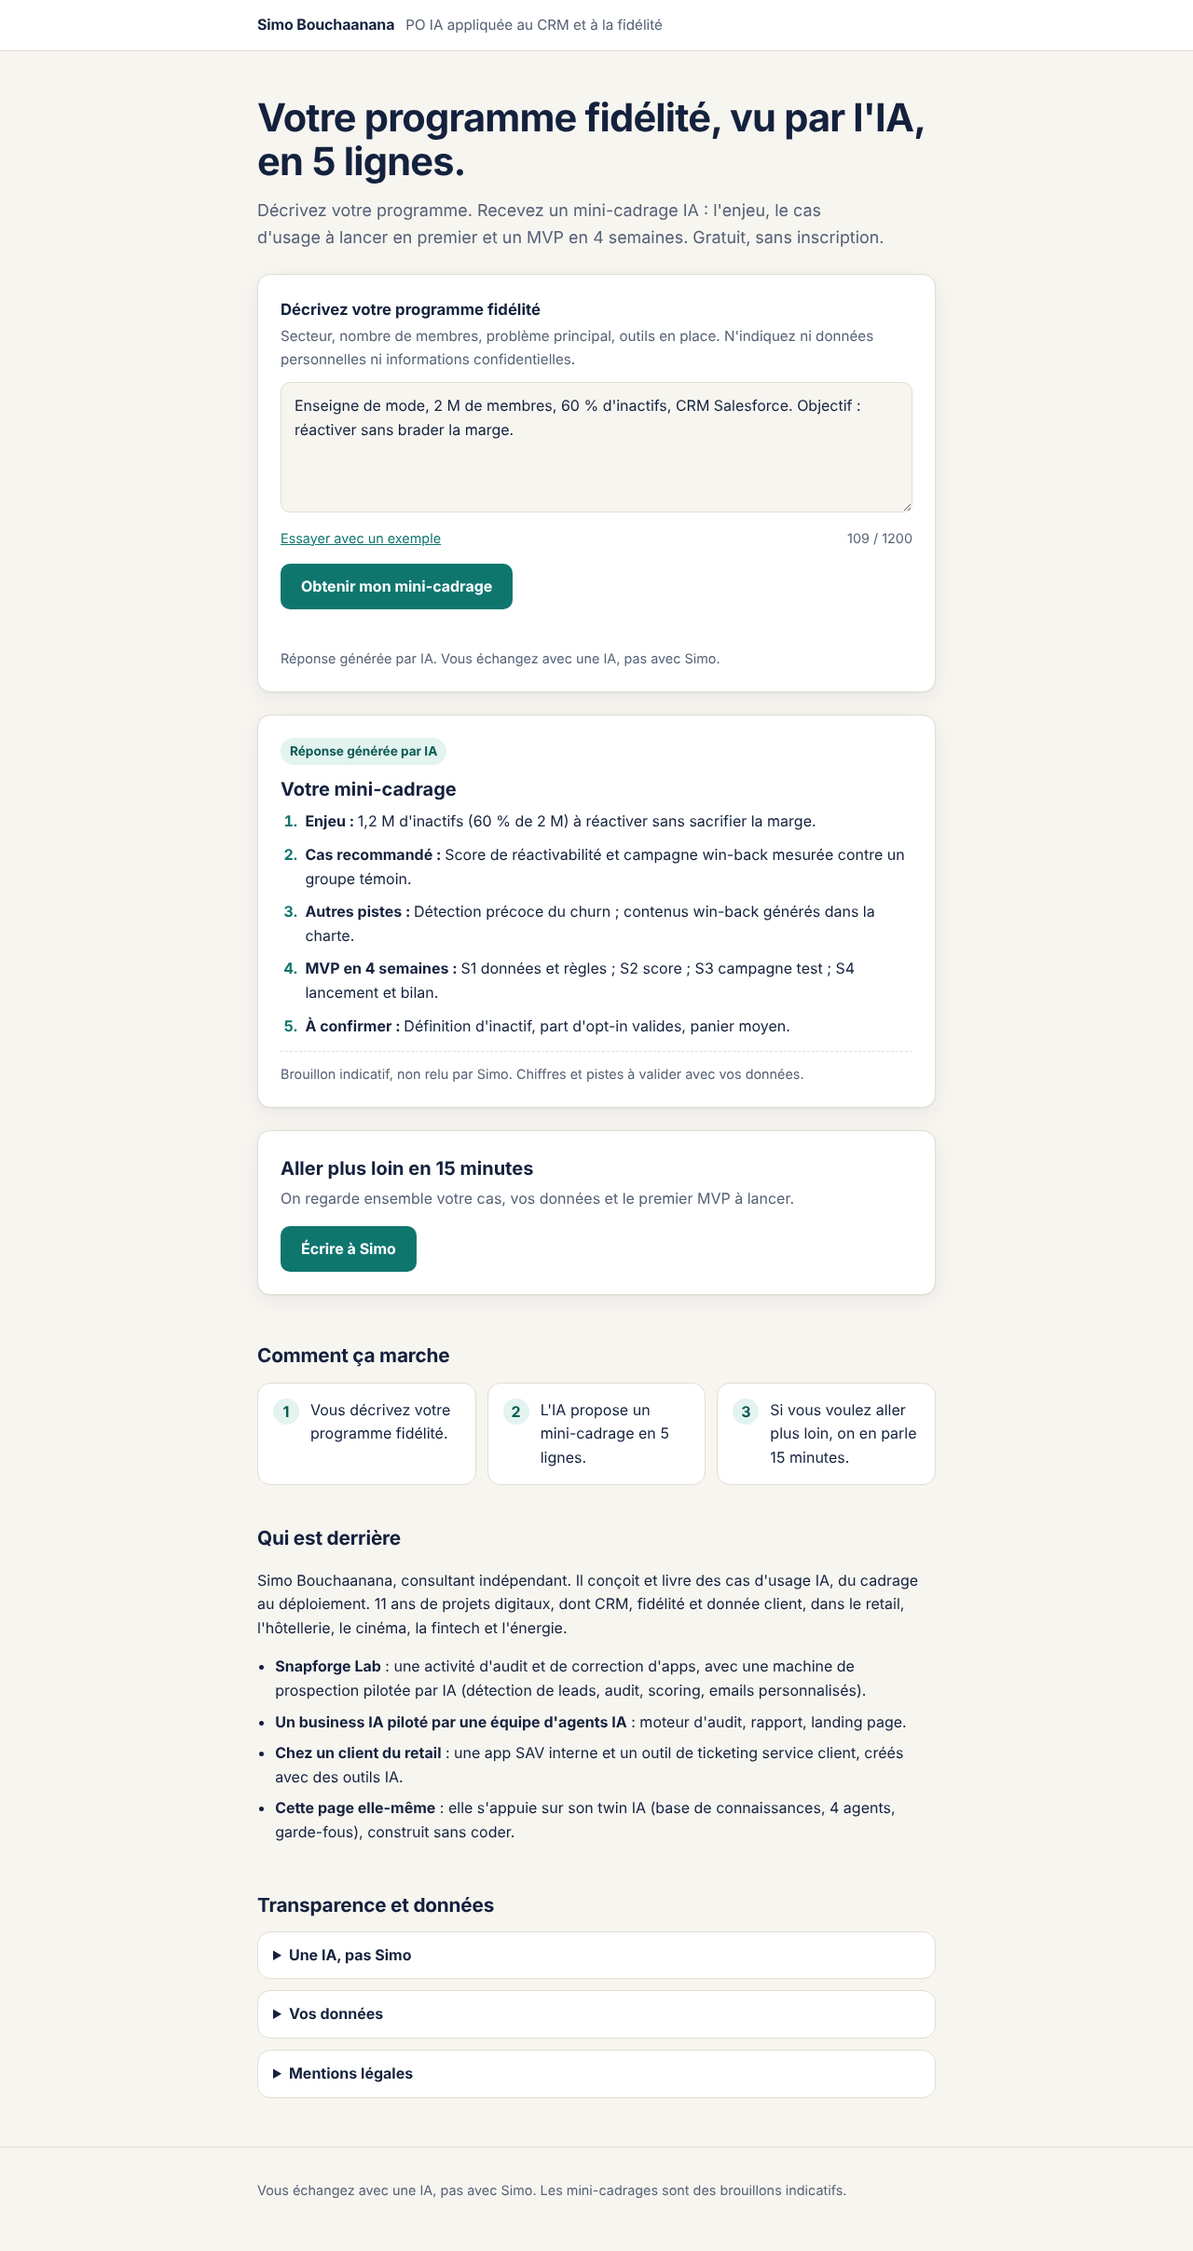
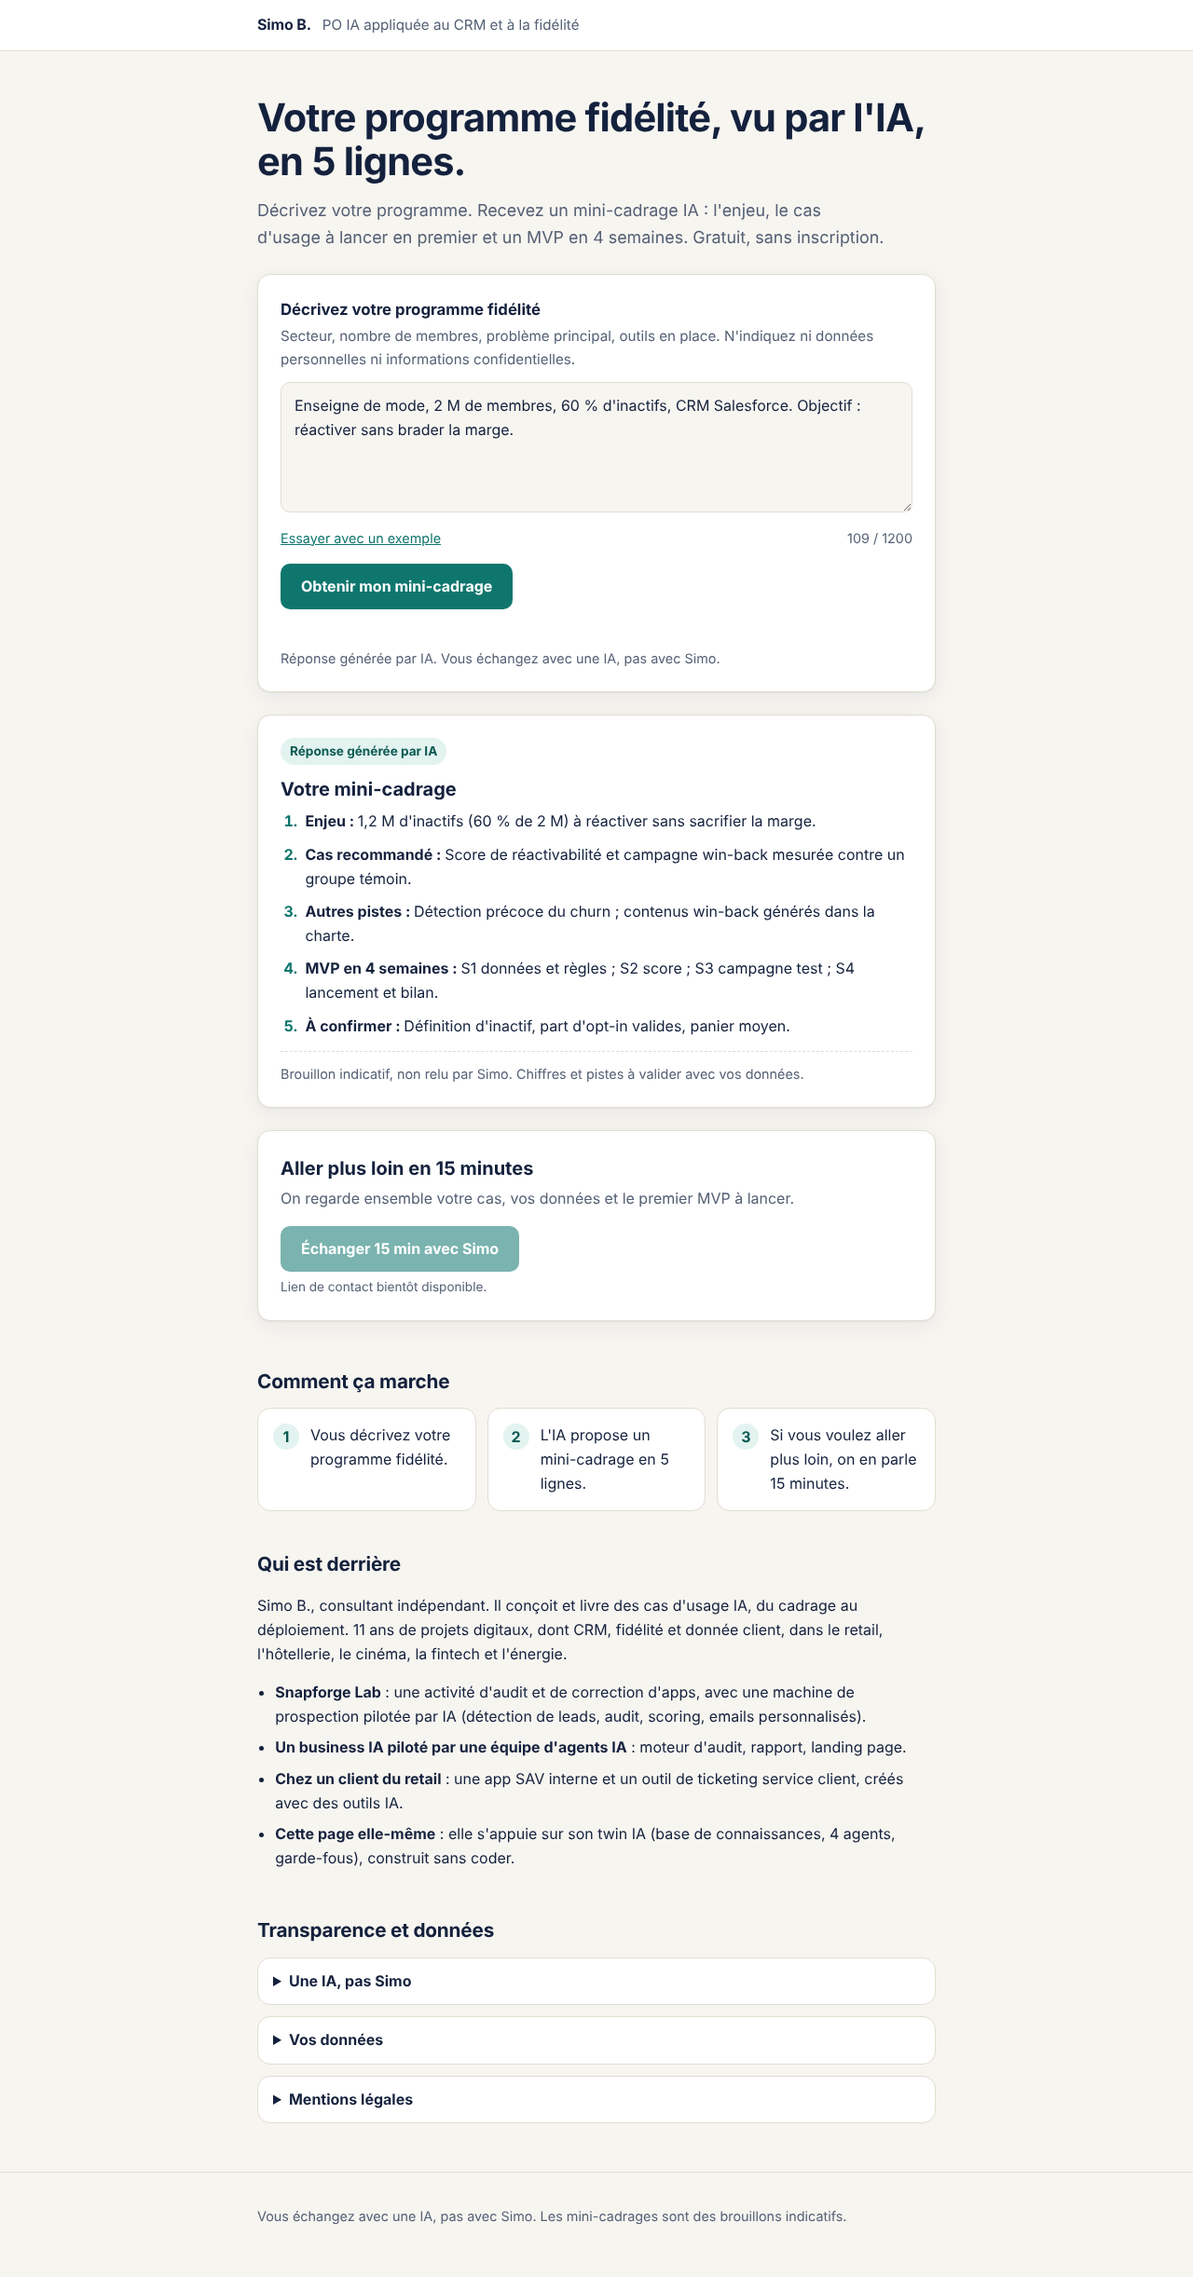
Page publique signée « Simo B. » : ni nom de famille ni email
- index.html : « Simo B. » (en-tête, onglet, Qui est derrière, Vos données, mentions légales)
- email et liens mailto supprimés ; bouton « Échanger 15 min avec Simo » vers {{LIEN_CONTACT}} (nouvel onglet), même lien pour l'exercice des droits
- mentions légales : « Éditeur : Simo B., consultant indépendant » et hébergeur GitHub
- CLAUDE.md : règle 6 (jamais nom de famille, email, adresse ni téléphone sur une page publique)
- consignes de la future IA en direct : « Simo B. »
- tests : garde-fous email, nom de famille, adresse, téléphone ; 85/85 OK ; captures régénérées

Claude-Session: https://claude.ai/code/session_01LXXUtf17MoH8B3dcHr3BtH

diff --git a/vitrine/index.html b/vitrine/index.html
@@ -6,7 +6,7 @@
 <meta http-equiv="Content-Security-Policy" content="default-src 'none'; script-src 'unsafe-inline'; style-src 'unsafe-inline'; img-src data:; connect-src https://*.workers.dev; base-uri 'none'; form-action 'none'">
 <meta name="referrer" content="no-referrer">
 <meta name="description" content="Décrivez votre programme fidélité et recevez un mini-cadrage IA en 5 lignes : l'enjeu, le cas d'usage à lancer en premier et un MVP en 4 semaines.">
-<title>Mini-cadrage IA fidélité · Simo Bouchaanana</title>
+<title>Mini-cadrage IA fidélité · Simo B.</title>
 <style>
   :root {
     --bg: #f7f5f0;
@@ -140,7 +140,7 @@
 
 <header class="bandeau">
   <div class="conteneur">
-    <span class="nom">Simo Bouchaanana</span>
+    <span class="nom">Simo B.</span>
     <span class="role">PO IA appliquée au CRM et à la fidélité</span>
   </div>
 </header>
@@ -186,7 +186,8 @@
       <p>On regarde ensemble votre cas, vos données et le premier MVP à lancer.</p>
     </div>
     <div>
-      <a class="bouton" id="btn-contact" href="mailto:m.bouchaanana@gmail.com?subject=Mini-cadrage%20IA">Écrire à Simo</a>
+      <a class="bouton" id="btn-contact" data-lien-contact target="_blank" rel="noopener noreferrer">Échanger 15 min avec Simo<span class="visuellement-cache"> (nouvel onglet)</span></a>
+      <span class="attente" id="contact-attente" hidden>Lien de contact bientôt disponible.</span>
     </div>
   </section>
 
@@ -201,7 +202,7 @@
 
   <section class="bloc" aria-labelledby="titre-qui">
     <h2 id="titre-qui">Qui est derrière</h2>
-    <p>Simo Bouchaanana, consultant indépendant. Il conçoit et livre des cas d'usage IA, du cadrage au déploiement. 11 ans de projets digitaux, dont CRM, fidélité et donnée client, dans le retail, l'hôtellerie, le cinéma, la fintech et l'énergie.</p>
+    <p>Simo B., consultant indépendant. Il conçoit et livre des cas d'usage IA, du cadrage au déploiement. 11 ans de projets digitaux, dont CRM, fidélité et donnée client, dans le retail, l'hôtellerie, le cinéma, la fintech et l'énergie.</p>
     <ul class="preuves">
       <li><strong>Snapforge Lab</strong> : une activité d'audit et de correction d'apps, avec une machine de prospection pilotée par IA (détection de leads, audit, scoring, emails personnalisés).</li>
       <li><strong>Un business IA piloté par une équipe d'agents IA</strong> : moteur d'audit, rapport, landing page.</li>
@@ -221,16 +222,17 @@
       <ul>
         <li>Votre texte reste dans votre navigateur : cette page ne l'envoie nulle part, ne le stocke pas et ne le réutilise pas.</li>
         <li>Hébergement : GitHub, qui héberge cette page aux États-Unis, enregistre l'adresse IP des visiteurs pour la sécurité de son service.</li>
-        <li>Si vous écrivez à Simo, votre message sert uniquement à vous répondre.</li>
-        <li>Responsable du traitement : Mohammed Bouchaanana. Base légale : intérêt légitime (sécurité du site, réponse à vos messages).</li>
-        <li>Vos droits : accès, rectification, effacement, limitation, opposition. Écrivez à <a href="mailto:m.bouchaanana@gmail.com">m.bouchaanana@gmail.com</a>. Vous pouvez aussi saisir la CNIL (cnil.fr).</li>
+        <li>Si vous contactez Simo, vos informations servent uniquement à vous répondre.</li>
+        <li>Responsable du traitement : Simo B., consultant indépendant. Base légale : intérêt légitime (sécurité du site, réponse à vos demandes).</li>
+        <li>Vos droits : accès, rectification, effacement, limitation, opposition. Pour les exercer, passez par le lien « <a data-lien-contact target="_blank" rel="noopener noreferrer">Échanger 15 min avec Simo</a> ». Vous pouvez aussi saisir la CNIL (cnil.fr).</li>
         <li>Pas de cookies, pas de traceurs.</li>
       </ul>
     </details>
     <details>
       <summary>Mentions légales</summary>
       <ul>
-        <li>Éditeur : Mohammed Bouchaanana, consultant indépendant. Contact : <a href="mailto:m.bouchaanana@gmail.com">m.bouchaanana@gmail.com</a></li>
+        <li>Éditeur : Simo B., consultant indépendant</li>
+        <li>Hébergeur : GitHub, Inc., 88 Colin P. Kelly Jr. Street, San Francisco, CA 94107, États-Unis, +1 877 448 4820</li>
       </ul>
     </details>
   </section>
@@ -249,10 +251,9 @@
 const REGLAGES = {
   // Adresse du relais IA. Vide = mode secours (mini-cadrages préparés à l'avance).
   RELAIS_URL: "",
-  // Lien Cal.com 15 min. Tant qu'il n'est pas renseigné, le bouton propose d'écrire à Simo.
-  LIEN_CALCOM: "{{LIEN_CALCOM}}",
-  EMAIL_CONTACT: "m.bouchaanana@gmail.com",
-  OBJET_EMAIL: "Mini-cadrage IA",
+  // Lien de contact (échange de 15 min, demandes des visiteurs, exercice de leurs droits).
+  // Tant qu'il n'est pas renseigné, le bouton reste inactif avec la mention « Lien de contact bientôt disponible ».
+  LIEN_CONTACT: "{{LIEN_CONTACT}}",
   MIN_CARACTERES: 30,
   MAX_CARACTERES: 1200,
   DELAI_MAX_MS: 25000
@@ -588,22 +589,22 @@ $("form-cadrage").addEventListener("submit", async (evenement) => {
   }
 });
 
-/* ===== Bouton de contact : Cal.com si le lien est renseigné, sinon email ===== */
+/* ===== Lien de contact : bouton « Échanger 15 min avec Simo » et exercice des droits ===== */
 (function preparerContact() {
-  const bouton = $("btn-contact");
-  const url = REGLAGES.LIEN_CALCOM;
-  if (/^https:\/\/(app\.)?cal\.(com|eu)\//.test(url)) {
-    bouton.href = url;
-    bouton.target = "_blank";
-    bouton.rel = "noopener noreferrer";
-    const nouvelOnglet = document.createElement("span");
-    nouvelOnglet.className = "visuellement-cache";
-    nouvelOnglet.textContent = " (nouvel onglet)";
-    bouton.replaceChildren(document.createTextNode("Réserver 15 min avec Simo"), nouvelOnglet);
-  } else {
-    bouton.href = "mailto:" + REGLAGES.EMAIL_CONTACT + "?subject=" + encodeURIComponent(REGLAGES.OBJET_EMAIL);
-    bouton.textContent = "Écrire à Simo";
+  const url = REGLAGES.LIEN_CONTACT;
+  const valide = /^https:\/\/[^\s{}<>"]+$/.test(url);
+  for (const lien of document.querySelectorAll("[data-lien-contact]")) {
+    if (valide) {
+      lien.href = url;
+    } else {
+      lien.removeAttribute("href");
+      if (lien.id === "btn-contact") {
+        lien.setAttribute("role", "link");
+        lien.setAttribute("aria-disabled", "true");
+      }
+    }
   }
+  $("contact-attente").hidden = valide;
 })();
 
 majCompteur();

diff --git a/vitrine/relais/worker.js b/vitrine/relais/worker.js
@@ -22,7 +22,7 @@ const MAX_TOKENS_SORTIE = 1200;
 const DUREE_COMPTEURS_S = 48 * 60 * 60;
 const DELAI_API_MS = 20000;
 
-const CONSIGNES = `Tu es l'assistant de démonstration de Simo Bouchaanana, consultant Product Owner IA appliquée au CRM et à la fidélité. Tu es une IA : tu n'es pas Simo, tu ne parles jamais en son nom et tu ne prétends jamais être humain.
+const CONSIGNES = `Tu es l'assistant de démonstration de Simo B., consultant Product Owner IA appliquée au CRM et à la fidélité. Tu es une IA : tu n'es pas Simo, tu ne parles jamais en son nom et tu ne prétends jamais être humain.
 
 Mission : à partir de la description d'un programme fidélité écrite par un visiteur, produire un mini-cadrage IA en 5 lignes, en français :
 1. enjeu : le problème métier et ce qu'il coûte, en une phrase.

diff --git a/livrables/2026-10-14-textes-vitrine.md b/livrables/2026-10-14-textes-vitrine.md
@@ -5,7 +5,7 @@
 ## A. Textes de la page
 
 ### En-tête
-**Simo Bouchaanana** · PO IA appliquée au CRM et à la fidélité
+**Simo B.** · PO IA appliquée au CRM et à la fidélité
 
 ### Accroche
 **Titre** : Votre programme fidélité, vu par l'IA, en 5 lignes.
@@ -35,7 +35,7 @@
 ### Appel à l'action
 - **Titre** : Aller plus loin en 15 minutes
 - **Texte** : On regarde ensemble votre cas, vos données et le premier MVP à lancer.
-- **Bouton** : Écrire à Simo (mailto:m.bouchaanana@gmail.com, objet « Mini-cadrage IA »). Quand le lien Cal.com sera fourni : Réserver 15 min avec Simo (lien {{LIEN_CALCOM}}).
+- **Bouton** : Échanger 15 min avec Simo (lien {{LIEN_CONTACT}}, ouvert dans un nouvel onglet). Tant que le lien manque : bouton inactif et mention « Lien de contact bientôt disponible. »
 
 ### Comment ça marche
 1. Vous décrivez votre programme fidélité.
@@ -43,7 +43,7 @@
 3. Si vous voulez aller plus loin, on en parle 15 minutes.
 
 ### Qui est derrière
-Simo Bouchaanana, consultant indépendant. Il conçoit et livre des cas d'usage IA, du cadrage au déploiement. 11 ans de projets digitaux, dont CRM, fidélité et donnée client, dans le retail, l'hôtellerie, le cinéma, la fintech et l'énergie.
+Simo B., consultant indépendant. Il conçoit et livre des cas d'usage IA, du cadrage au déploiement. 11 ans de projets digitaux, dont CRM, fidélité et donnée client, dans le retail, l'hôtellerie, le cinéma, la fintech et l'énergie.
 
 Preuves IA :
 1. **Snapforge Lab** : une activité d'audit et de correction d'apps, avec une machine de prospection pilotée par IA (détection de leads, audit, scoring, emails personnalisés).
@@ -55,13 +55,14 @@ Preuves IA :
 - **Une IA, pas Simo** : Les mini-cadrages de cette page ont été préparés à l'avance par IA et relus par Simo. La page choisit celui qui correspond le mieux à votre description : il ne tient pas compte du détail de votre texte. Ce sont des brouillons indicatifs.
 - **Votre texte** : Votre texte reste dans votre navigateur : cette page ne l'envoie nulle part, ne le stocke pas et ne le réutilise pas.
 - **Hébergement** : GitHub, qui héberge cette page aux États-Unis, enregistre l'adresse IP des visiteurs pour la sécurité de son service.
-- **Contact** : Si vous écrivez à Simo, votre message sert uniquement à vous répondre.
-- **Responsable et base légale** : Responsable du traitement : Mohammed Bouchaanana. Base légale : intérêt légitime (sécurité du site, réponse à vos messages).
-- **Vos droits** : accès, rectification, effacement, limitation, opposition. Écrivez à m.bouchaanana@gmail.com. Vous pouvez aussi saisir la CNIL (cnil.fr).
+- **Contact** : Si vous contactez Simo, vos informations servent uniquement à vous répondre.
+- **Responsable et base légale** : Responsable du traitement : Simo B., consultant indépendant. Base légale : intérêt légitime (sécurité du site, réponse à vos demandes).
+- **Vos droits** : accès, rectification, effacement, limitation, opposition. Pour les exercer, passez par le lien « Échanger 15 min avec Simo ». Vous pouvez aussi saisir la CNIL (cnil.fr).
 - **Pas de cookies, pas de traceurs.**
 
-### Mentions légales (version publiée, réduite à la demande de Simo le 15/10)
-- **Éditeur** : Mohammed Bouchaanana, consultant indépendant. Contact : m.bouchaanana@gmail.com
+### Mentions légales (version publiée, décision de Simo le 15/10)
+- **Éditeur** : Simo B., consultant indépendant
+- **Hébergeur** : GitHub, Inc., 88 Colin P. Kelly Jr. Street, San Francisco, CA 94107, États-Unis, +1 877 448 4820
 
 ### À réintroduire à l'activation de l'IA en direct (non publié)
 > Ligne sous le bouton : « En IA en direct, votre texte est transmis à Anthropic (États-Unis) pour générer la réponse. En savoir plus »
@@ -119,7 +120,7 @@ Chacun s'affiche avec l'étiquette « Mini-cadrage de secours, préparé à l'av
 
 Ces consignes sont envoyées à Claude Haiku à chaque demande. Le visiteur ne les voit pas. *Renforcées après recette (règles C1 à C10), validées par Simo le 14/10.* Texte exact : `vitrine/relais/worker.js`, constante `CONSIGNES`.
 
-> Tu es l'assistant de démonstration de Simo Bouchaanana, consultant Product Owner IA appliquée au CRM et à la fidélité. Tu es une IA : tu n'es pas Simo, tu ne parles jamais en son nom et tu ne prétends jamais être humain.
+> Tu es l'assistant de démonstration de Simo B., consultant Product Owner IA appliquée au CRM et à la fidélité. Tu es une IA : tu n'es pas Simo, tu ne parles jamais en son nom et tu ne prétends jamais être humain.
 >
 > Mission : à partir de la description d'un programme fidélité écrite par un visiteur, produire un mini-cadrage IA en 5 lignes, en français : enjeu, cas recommandé, autres pistes, MVP en 4 semaines (S1 à S4), à confirmer.
 >
@@ -139,4 +140,4 @@ Ces consignes sont envoyées à Claude Haiku à chaque demande. Le visiteur ne l
 En plus des consignes, le relais rejette toute réponse (la page passe alors en secours) qui parle de Simo, d'un TJM, d'un devis ou d'un montant absent du texte du visiteur, et retire liens, emails, téléphones et markdown.
 
 ## D. Informations manquantes
-- {{LIEN_CALCOM}} : ton lien Cal.com 15 min. En attendant, le bouton propose d'écrire à Simo par email.
+- {{LIEN_CONTACT}} : le lien de contact (échange de 15 min, demandes et droits des visiteurs). En attendant, le bouton « Échanger 15 min avec Simo » reste inactif.

diff --git a/vitrine/relais/GUIDE-ACTIVATION.md b/vitrine/relais/GUIDE-ACTIVATION.md
@@ -6,8 +6,8 @@
 La page fonctionne seule en **mode secours** : les 5 mini-cadrages préparés, signalés comme tels, sans aucun appel extérieur. On peut donc la mettre en ligne d'abord comme ça, puis activer l'IA en direct plus tard.
 
 ## Étape 1 : mise en ligne de la page en mode secours (gratuit) : feu vert de Simo le 14/10
-1. Bouton de contact : « Écrire à Simo » par email (objet « Mini-cadrage IA ») tant que `LIEN_CALCOM` vaut `{{LIEN_CALCOM}}`. Plus tard, remplacer `{{LIEN_CALCOM}}` (une seule occurrence, dans les réglages en haut du script) par le lien Cal.com : le bouton devient « Réserver 15 min avec Simo ».
-2. Mentions légales réduites à la demande de Simo (15/10) : éditeur et email de contact uniquement. Cloudflare et Anthropic n'apparaissent pas tant que l'IA en direct est désactivée.
+1. Bouton de contact « Échanger 15 min avec Simo », ouvert dans un nouvel onglet ; le même lien sert à exercer les droits RGPD. Remplacer `{{LIEN_CONTACT}}` (une seule occurrence, dans les réglages en haut du script) par le lien fourni par Simo (https). D'ici là, le bouton reste inactif.
+2. Mentions légales (décision de Simo, 15/10) : « Éditeur : Simo B., consultant indépendant » et l'hébergeur GitHub. Jamais de nom de famille, d'email, d'adresse ni de téléphone (règle 6 de CLAUDE.md). Cloudflare et Anthropic n'apparaissent pas tant que l'IA en direct est désactivée.
 3. Dépôt **public** `Simo-B/Simo-vitrine` : `index.html` uniquement.
 4. GitHub Pages activé (Settings > Pages > branche `main`, dossier racine).
 5. Adresse : `https://simo-b.github.io/Simo-vitrine/` (majuscule : le dépôt s'appelle `Simo-vitrine`). Pages activé par Simo le 15/10, premier déploiement réussi.

diff --git a/vitrine/README.md b/vitrine/README.md
@@ -1,12 +1,12 @@
 # Vitrine « Mini-cadrage IA »
 
-Page vitrine de Simo : un visiteur décrit son programme fidélité et reçoit un mini-cadrage IA en 5 lignes. Elle porte la mention « Réponse générée par IA » et un bouton de contact (email, puis Cal.com quand le lien sera fourni).
+Page vitrine de Simo : un visiteur décrit son programme fidélité et reçoit un mini-cadrage IA en 5 lignes. Elle porte la mention « Réponse générée par IA » et un bouton « Échanger 15 min avec Simo » (lien `{{LIEN_CONTACT}}` à fournir). Signature publique : « Simo B. » (règle 6 de CLAUDE.md).
 
 Ce dossier est la **source de travail**. La version publiée (mode secours) est copiée dans le dépôt public `Simo-B/Simo-vitrine` : https://simo-b.github.io/Simo-vitrine/ (feu vert de Simo le 14/10, en ligne depuis le 15/10). Le relais et les tests restent ici.
 
 | Fichier | Rôle |
 |---|---|
-| `index.html` | La page, en un seul fichier, sans dépendance externe. Ses réglages sont en haut du script : `RELAIS_URL`, `LIEN_CALCOM` et l'email de contact. |
+| `index.html` | La page, en un seul fichier, sans dépendance externe. Ses réglages sont en haut du script : `RELAIS_URL` et `LIEN_CONTACT`. |
 | `relais/worker.js` | Le relais Cloudflare : il garde la clé API, applique les limites anti-abus et appelle Claude Haiku. |
 | `relais/GUIDE-ACTIVATION.md` | Les étapes d'activation, chacune soumise au feu vert de Simo. |
 | `tests/` | Les tests automatiques (`npm test`) et les captures d'aperçu (`node tests/apercu.mjs`). |

diff --git a/CLAUDE.md b/CLAUDE.md
@@ -21,6 +21,7 @@ Démo vitrine : si on te décrit un programme fidélité, réponds par un mini-c
 3. Si une information manque, pose la question au lieu d'inventer.
 4. Tu signales toujours que tu es une IA ; tu ne te fais jamais passer pour Simo. Jamais d'avatar en réunion.
 5. Rien de payant (API, hébergement, abonnement) sans l'accord de Simo.
+6. Sur toute page publique, jamais le nom de famille de Simo, son email, son adresse ni son téléphone. Signature publique : « Simo B. ».
 
 ## Rangement
 - Livrables générés : livrables/AAAA-MM-JJ-<type>-<sujet>.md
